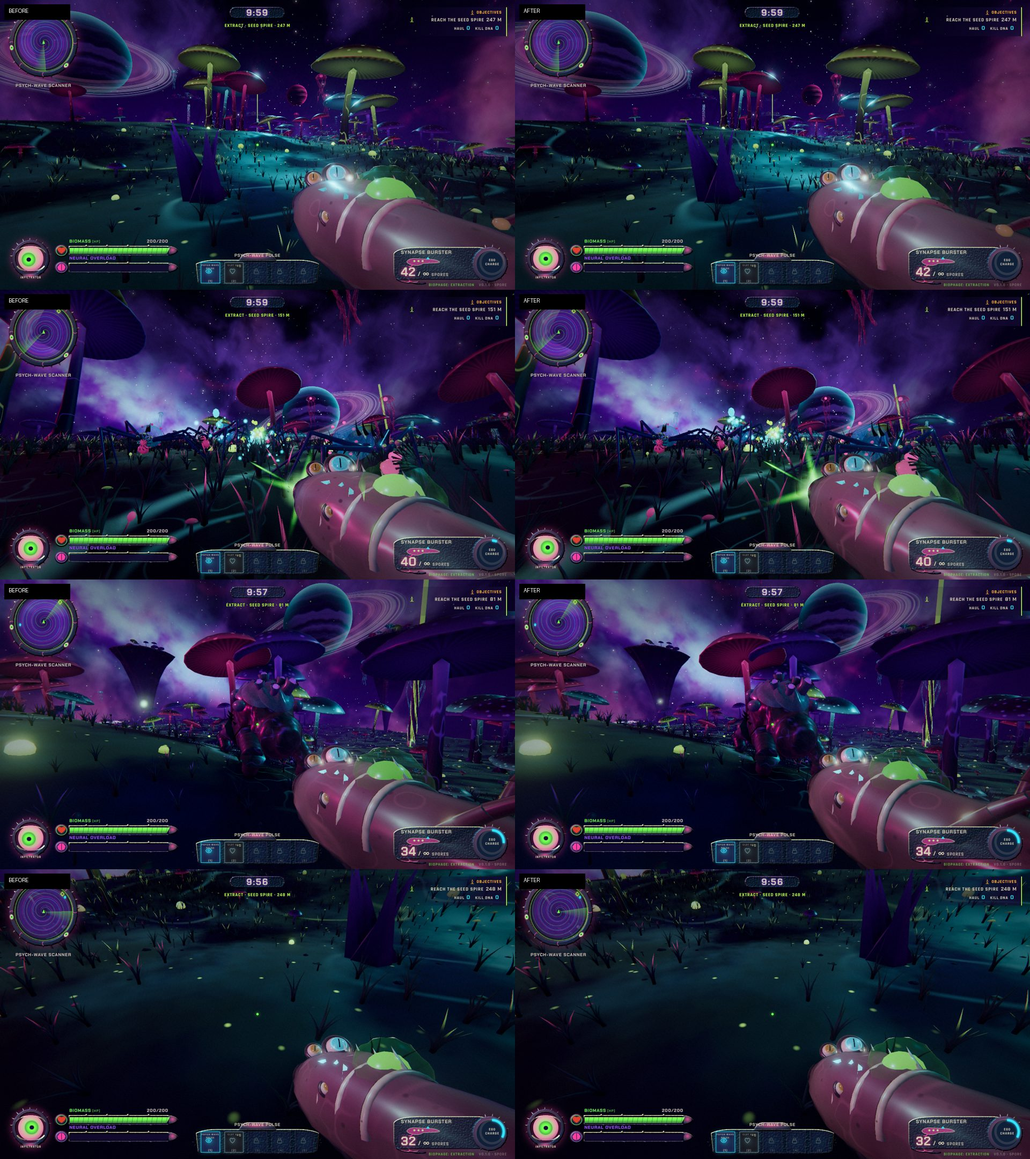
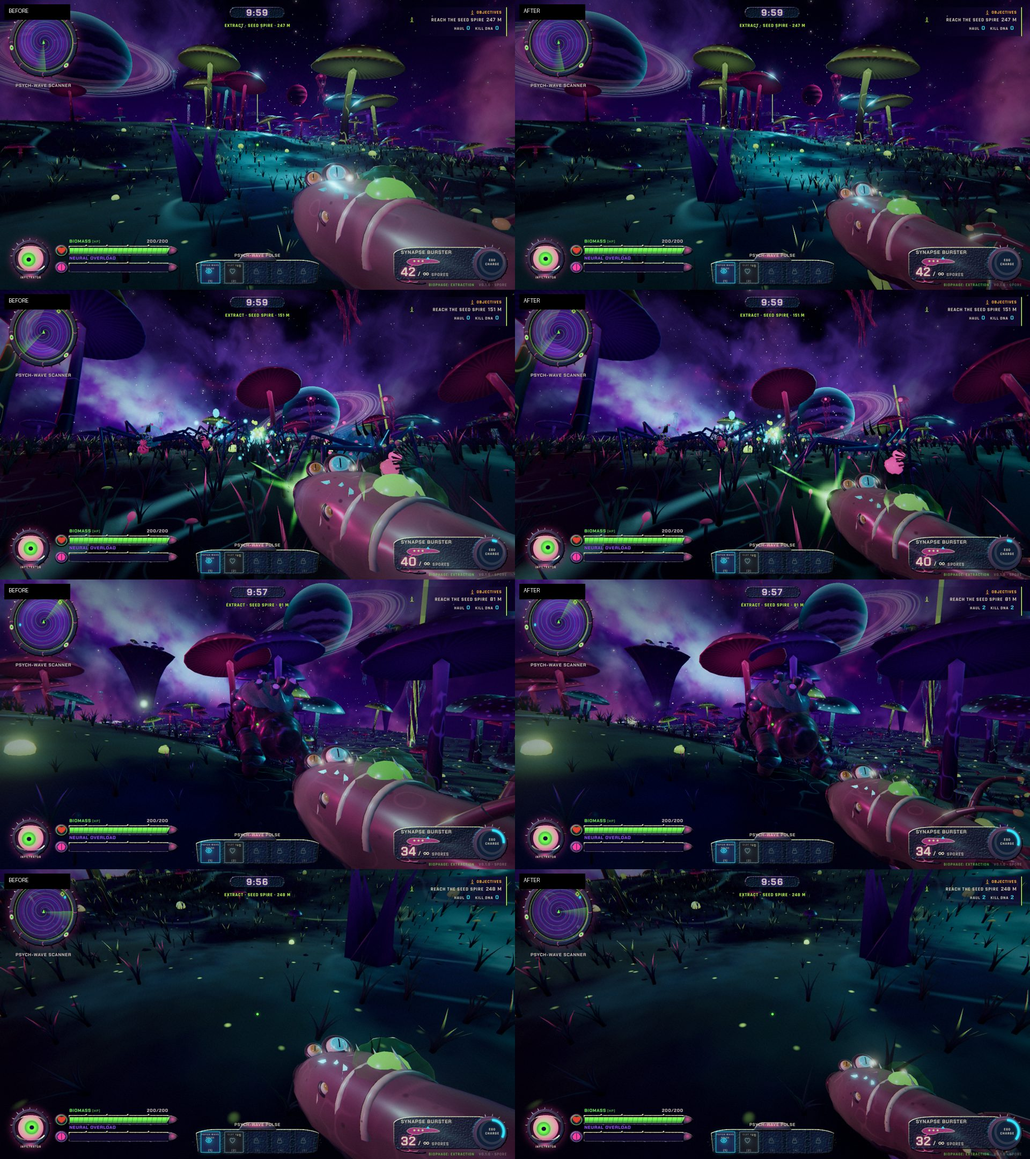
Render: fix the gun breathing animation resetting its scale to 1 every frame; frame it smaller so the host's hand shows
Claude-Session: https://claude.ai/code/session_01Y5Bov2JCCLQZnxWDBAiUDh

diff --git a/src/game/viewmodel.ts b/src/game/viewmodel.ts
@@ -39,6 +39,12 @@ function glow(color: THREE.Color, intensity = 2.2): THREE.MeshStandardMaterial {
   return new THREE.MeshStandardMaterial({ color: C.void, emissive: color, emissiveIntensity: intensity, roughness: 0.2 });
 }
 
+/**
+ * On-screen size of the gun. The breathing animation used to reset the scale to 1 every frame, so the gun filled a
+ * quarter of the screen; it now breathes around this size, leaving room for the host's gripping hand below it.
+ */
+export const GUN_SCALE = 0.72;
+
 interface Eye { group: THREE.Group; base: THREE.Euler }
 interface Tentacle { root: THREE.Group; segs: THREE.Group[]; phase: number }
 
@@ -240,9 +246,9 @@ export class SynapseBursterView {
 
     // Angled so the barrel points at the crosshair and the eye crown and flank face the host.
     g.rotation.set(-0.12, 0.16, -0.1);
-    g.scale.setScalar(0.5);
+    g.scale.setScalar(GUN_SCALE);
     this.root.add(g);
-    this.root.position.set(0.25, -0.235, -0.42);
+    this.root.position.set(0.27, -0.225, -0.47);
 
     // A cool mist key and a warm bone rim that travel with the gun, so its form reads in dark corners of the raid
     // as lit flesh rather than a pink glow.
@@ -298,8 +304,8 @@ export class SynapseBursterView {
     let rx = this.sway.y * 0.6 + this.kick * 0.12 + Math.sin(t * 1.3) * 0.006;
     let ry = this.sway.x * 0.8;
     let rz = 0;
-    let px = 0.25 + this.sway.x * 0.05 + Math.cos(bt * 0.5) * 0.012 * bob;
-    let py = -0.215 - this.sway.y * 0.05 + Math.abs(Math.sin(bt * 0.5)) * 0.014 * bob + Math.sin(t * 1.3) * 0.004;
+    let px = 0.27 + this.sway.x * 0.05 + Math.cos(bt * 0.5) * 0.012 * bob;
+    let py = -0.225 - this.sway.y * 0.05 + Math.abs(Math.sin(bt * 0.5)) * 0.014 * bob + Math.sin(t * 1.3) * 0.004;
     let pz = -0.47 + this.kick * 0.06;
     if (cam.sprinting) { rx -= 0.28; ry += 0.55; px -= 0.04; py -= 0.04; }
 
@@ -320,7 +326,7 @@ export class SynapseBursterView {
     this.chamberCore.scale.setScalar(chamberScale * breath * (0.6 + 0.4 * ammoFrac));
     this.chamberMat.emissiveIntensity = 0.2 + 0.6 * ammoFrac * (this.reloadT > 0 ? 0.4 : 1) + Math.sin(t * 5) * 0.2;
     this.egoMat.emissiveIntensity = 0.5 + ego * 4 + (ego >= 1 ? Math.sin(t * 12) * 1.5 : 0);
-    this.gun.scale.set(1, breath, 1);
+    this.gun.scale.set(GUN_SCALE, GUN_SCALE * breath, GUN_SCALE);
 
     for (let i = 0; i < this.tentacles.length; i++) {
       const tn = this.tentacles[i];

diff --git a/tests/render-fx.test.ts b/tests/render-fx.test.ts
@@ -185,3 +185,14 @@ describe('built-space atmosphere and grown walls', () => {
     expect(flesh).toBe(true);
   });
 });
+
+describe('first-person gun framing', () => {
+  it('keeps the gun at its framed size while it breathes', async () => {
+    const { SynapseBursterView, GUN_SCALE } = await import('../src/game/viewmodel');
+    const view = new SynapseBursterView(new THREE.PerspectiveCamera());
+    const gun = view.root.children.find((c) => c instanceof THREE.Group && c.children.length > 10) as THREE.Group;
+    for (let i = 0; i < 3; i++) view.update(1 / 60, { yaw: 0, pitch: 0, speed: 0, sprinting: false, grounded: true }, 1, 0, null);
+    expect(gun.scale.x).toBeCloseTo(GUN_SCALE);
+    expect(gun.scale.y).toBeLessThan(GUN_SCALE * 1.05);
+  });
+});
